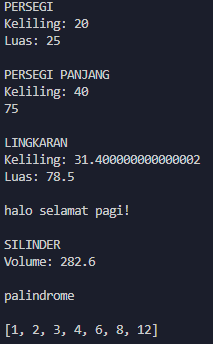
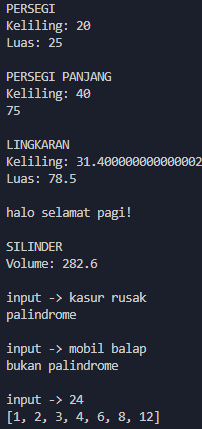
menyelesaikan tugas 3

diff --git a/03_Fundamental Dart/praktikum/tugas.dart b/03_Fundamental Dart/praktikum/tugas.dart
@@ -1,5 +1,7 @@
 double phi = 3.14;
 
+//-----------------prioritas 1-----------------
+
 void persegi(int sisi) {
   print('PERSEGI');
   print('Keliling: ${sisi * 4}\nLuas: ${sisi * sisi}');
@@ -15,7 +17,7 @@ void lingkaran(int rad) {
   print('Keliling: ${2 * phi * rad}\nLuas: ${phi * rad * rad}');
 }
 
-// ---------------------------------------
+// -----------------prioritas 2-----------------
 
 void sambung_kata(String a, String b, String c) {
   print('\n$a $b $c');
@@ -26,7 +28,7 @@ void vol_silinder(int rad, int tinggi) {
   print('Volume: ${phi * (rad * rad) * tinggi}');
 }
 
-// ---------------------------------------
+// -----------------eksplorasi-----------------
 
 void is_palindrome(String kata) {
   String a = '';
@@ -34,9 +36,11 @@ void is_palindrome(String kata) {
     a += kata[kata.length - 1 - i];
   }
   if (kata == a) {
-    print('\npalindrome');
+    print('\ninput -> $kata');
+    print('palindrome');
   } else {
-    print('\nbukan palindrome');
+    print('\ninput -> $kata');
+    print('bukan palindrome');
   }
 }
 
@@ -47,7 +51,8 @@ void factor(int num) {
       factors.add(i);
     }
   }
-  print('\n$factors');
+  print('\ninput -> $num');
+  print('$factors');
 }
 
 void main() {
@@ -60,5 +65,8 @@ void main() {
   sambung_kata(a, b, c);
   vol_silinder(3, 10);
   is_palindrome('kasur rusak');
+  is_palindrome('mobil balap');
   factor(24);
 }
+
+// hasil dapat dilihat di folder screensots

diff --git a/03_Fundamental Dart/praktikum/tugas.md b/03_Fundamental Dart/praktikum/tugas.md
@@ -1,0 +1,79 @@
+## Soal Prioritas 1
+1. Membuat rumus keliling dan luas persegi dan persegi panjang dengan dart.
+2. Membuat rumus keliling dan luas lingkaran dengan dart.
+
+jawaban:
+1. ```dart
+   void persegi(int sisi) {
+        print('PERSEGI');
+        print('Keliling: ${sisi * 4}\nLuas: ${sisi * sisi}');
+    }
+    ```
+     ```dart
+    void persegiPanjang(int panjang, int lebar) {
+        print('\nPERSEGI PANJANG');
+        print('Keliling: ${2 * (panjang + lebar)}\n${panjang * lebar}');
+    }
+    ```
+2. ```dart
+    double phi = 3.14;
+    void lingkaran(int rad) {
+        print('\nLINGKARAN');
+        print('Keliling: ${2 * phi * rad}\nLuas: ${phi * rad * rad}');
+    }
+    ```
+
+## Soal Prioritas 2
+1. Membuat function yang menerima 3 variabel String dan menyambungkan 3 variabel tersebut sebagai output.
+2. Membuat rumus volume tabung dengan dart.
+
+jawaban:
+1. ```dart
+    void sambung_kata(String a, String b, String c) {
+        print('\n$a $b $c');
+    }
+    ```
+2. ```dart
+    double phi = 3.14;
+    void vol_silinder(int rad, int tinggi) {
+        print('\nSILINDER');
+        print('Volume: ${phi * (rad * rad) * tinggi}');
+    }
+    ```
+
+## Soal Eksplorasi
+1. Membuat program untuk mengecek apakah input berupa _Palindrom_. contoh: \
+   kasur rusak -> Palindrome\
+   mobil balap -> bukan Palindrome
+2. Membuat function yang mencari faktor dari input. contoh:\
+    input = 24 \
+    output -> [1,2,3,4,6,8,12]
+
+jawaban:
+1. ```dart
+    void is_palindrome(String kata) {
+        String a = '';
+        for (int i = 0; i < kata.length; i++) {
+            a += kata[kata.length - 1 - i];
+        }
+        if (kata == a) {
+            print('\ninput -> $kata');
+            print('palindrome');
+        } else {
+            print('\ninput -> $kata');
+            print('bukan palindrome');
+        }
+    }
+    ```
+1. ```dart
+    void factor(int num) {
+        List<int> factors = [];
+        for (int i = 1; i < num; i++) {
+          if (num % i == 0) {
+            factors.add(i);
+          }
+        }
+        print('\ninput -> $num');
+        print('$factors');
+    }
+    ```
